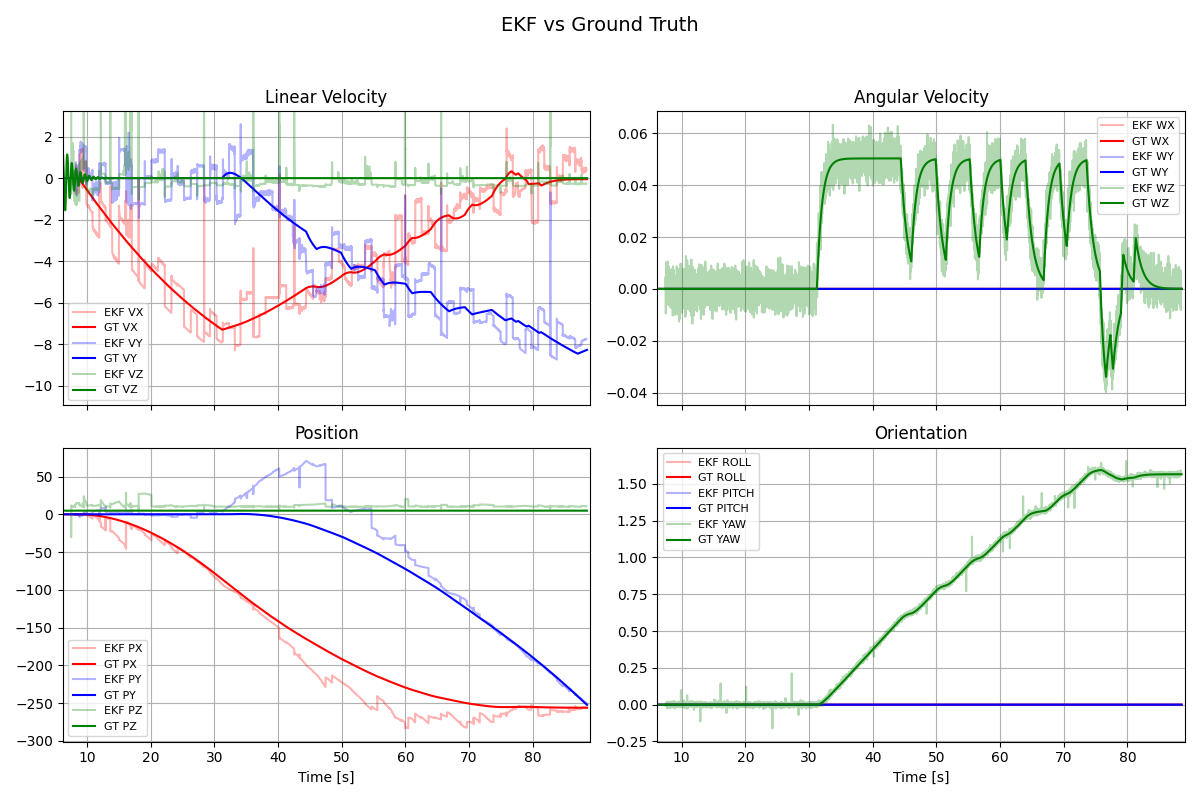
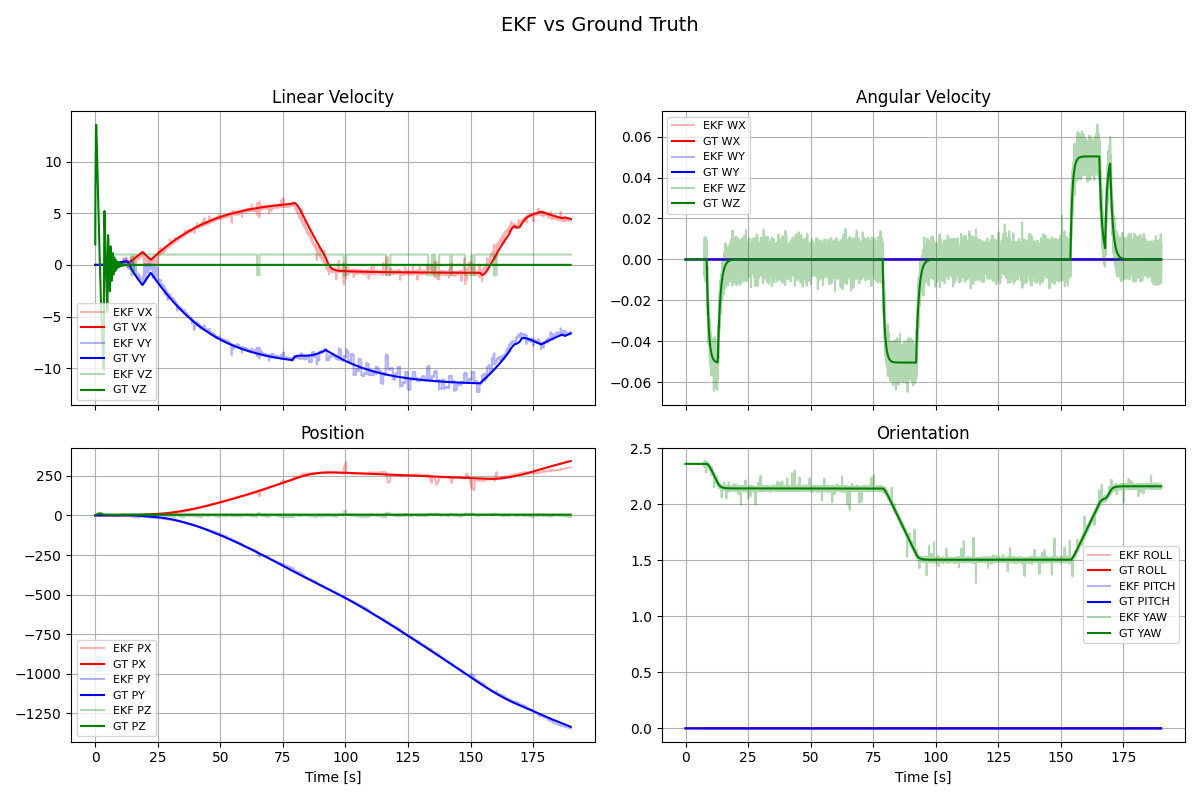
added propper angle handling :)))

diff --git a/src/state_estimators.rs b/src/state_estimators.rs
@@ -247,24 +247,11 @@ pub fn h_gnss(
     y
 }
 
-fn singularity_wrap(angle: f32) -> f32 {
-    let mut corrected = angle;
-    let diff = angle.abs() - PI;
-    if diff.abs() < 0.1 {
-        corrected = PI;
-    }
-
-    return corrected;
-}
-
 fn h_imu(
     x: Vector12<f32>,            // Estimated full state vector
     imu_placement: Vector3<f32>, // IMU placement: [x, y, z] in body frame
     imu_rotation: Vector3<f32>,  // IMU placement: [roll, pitch, yaw] in IMU frame
 ) -> Vector7<f32> {
-    // Get constants
-    let mag_north_w: Vector3<f32> = Vector3::new(0.0, 1.0, 0.0);
-
     // Split up states into manageable subparts
     let v_lin_w: Vector3<f32> = x.fixed_rows::<3>(0).into(); // [vx, vy, vz]
     let euler_dot: Vector3<f32> = x.fixed_rows::<3>(3).into(); // [angular velocity in roll, pitch, yaw]
@@ -273,7 +260,6 @@ fn h_imu(
     // Convert Ship to body frame
     let v_lin_ship: Vector3<f32> = kinematics::linear_velocity_world_to_body(euler, v_lin_w);
     let v_ang_ship: Vector3<f32> = kinematics::euler_dot_to_angular_velocity_body(euler, euler_dot);
-    let mag_north_ship: Vector3<f32> = kinematics::rot_world_to_body(euler) * mag_north_w;
 
     // Convert Ship to object frame
     let imu_velocity_in_ship = Vector3::<f32>::zeros(); // IMU sits tight, no linear velocity in the ship
@@ -290,25 +276,7 @@ fn h_imu(
     let mut v_ang_imu: Vector3<f32> = kinematics::angular_velocity_body_to_object(imu_v_ang_in_ship, v_ang_ship);
     v_ang_imu *= -1.0; // ? Need to invert the velocities for some reason (I have no idea why because its literally same transform as in simulation)
 
-    // Magnetometer singularity handler
-    let mut mag_imu_vec = kinematics::rot_object_to_body(imu_rotation) * mag_north_ship;
-    
-    // HARDEN against near-zero
-    let eps = 0.01; // You can tune this
-    if mag_imu_vec.norm() < eps {
-        mag_imu_vec = Vector3::new(eps, 0.0, 0.0); // Fake a small vector in +X direction
-    }
-
-    let mut mag_imu = mag_imu_vec.y.atan2(mag_imu_vec.x); // extract heading in world frame
-
-    // Check for values close to singularity
-    let diff = mag_imu.abs() - PI;
-    if diff.abs() < 0.1 {
-        mag_imu = PI;
-    }
-
-    // Need to eliminate sudden jumps between +pi and -pi, ie the singularity point
-    mag_imu = singularity_wrap(mag_imu);
+    let mag_imu = euler[2]; // Just assume its 1:1 yaw angle no rotation transforms
 
     // Pack it
     let mut y = Vector7::<f32>::zeros();
@@ -361,7 +329,7 @@ fn limit_states(x: Vector12<f32>) -> Vector12<f32> {
 /// # Output:
 /// - New angle, unwrapped and continuous (can grow beyond ±2π)
 fn unwrap_angle(prev_unwrapped: f32, new_wrapped: f32) -> f32 {
-    let mut delta = new_wrapped - (prev_unwrapped % (2.0 * PI));
+    let mut delta = (-new_wrapped) - (prev_unwrapped % (2.0 * PI));
     
     if delta > PI {
         delta -= 2.0 * PI;
@@ -572,7 +540,7 @@ fn main() {
             x_est_posterior = limit_states(x_est_posterior);
 
             // In addition we must update IMU data to absolute certainty values from GNSS where it applies
-            // Mainly to linear velocity IMU integral and drift can be reset
+            // Mainly to linear velocity IMU integral and drift to be reset
             {
                 // Convert measured GNSS velocity to IMU velocity integral
                 let z_imu = h_imu(
@@ -586,7 +554,7 @@ fn main() {
 
                 let mut v_lin_imu_write = v_lin_imu_clone.write().unwrap();
                 *v_lin_imu_write = z_imu_v;
-            } 
+            }
             {
                 let mut R_imu_write = R_imu_clone.write().unwrap();
                 *R_imu_write = R_imu_0;
@@ -615,6 +583,9 @@ fn main() {
         // Integration states
         let mut last_time = Instant::now();
 
+        // Unwrapped yaw follower
+        let mut mag_imu = 0.0;
+
         // Get the IMU drift
         let mut imu_drift_factor: Vector7::<f32> = Vector7::<f32>::from_row_slice(&config.estimators.imu_drift);
         imu_drift_factor += Vector7::<f32>::from_element(1.0);
@@ -640,28 +611,31 @@ fn main() {
             let mut v_lin_imu = *v_lin_imu_clone.read().unwrap();
             v_lin_imu += dt * accel;
 
+            // unwrap IMU magnetometer angle to be continuous instead of -pi to pi
+            mag_imu = unwrap_angle(mag_imu, imu[6]);
+
+            // For measurements we need inverted magnetometer values
+            let mag_imu_inv = mag_imu + config.sensors.imu_rotation[2] * 2.0 - PI/2.0;
+
             // Add drift to the measurement noise matrix
             let mut R: Matrix7x7<f32> = *R_imu_clone.read().unwrap();
             R = R.component_mul(&imu_drift_matrix);
 
-            // Update IMU drift matrix and velocity immediately 
+            // Update IMU velocity and drift matrix
             {
                 let mut v_lin_imu_write = v_lin_imu_clone.write().unwrap();
                 *v_lin_imu_write = v_lin_imu;
-            } 
+            }
             {
                 let mut R_imu_write = R_imu_clone.write().unwrap();
                 *R_imu_write = R;
             }
             
-            // Build vector measurement with integrated acceleration
+            // Build measurement vector 
             let mut z = Vector7::<f32>::zeros();
             z.fixed_rows_mut::<3>(0).copy_from(&v_lin_imu); // velocity
             z.fixed_rows_mut::<3>(3).copy_from(&imu.fixed_rows::<3>(3)); // gyro
-            z[6] = imu[6];
-
-            // Need to eliminate sudden jumps between +pi and -pi, ie the singularity point
-            z[6] = singularity_wrap(imu[6]);
+            z[6] = mag_imu_inv;
 
             // Correction
             let (
@@ -680,26 +654,6 @@ fn main() {
             );
 
             x_est_posterior = limit_states(x_est_posterior);
-
-            // Must also unwrap yaw because IMU has -pi to pi witch would mean sudden sharp peaks
-            // This is why we need ti unwrap IMU angle estimate into estimate that other correction and prediction functions can run as well
-            x_est_posterior[11] = unwrap_angle(x_est_pri[11], x_est_posterior[11]);
-
-            // ! DEBUGGING !
-            println!("x_est_pri: {:?}", x_est_pri);
-            println!("z: {:?}", z);
-            println!("h: {:?}", h_imu(
-                x_est_pri,
-                Vector3::from_column_slice(&config.sensors.imu_placement),
-                Vector3::from_column_slice(&config.sensors.imu_rotation),
-            ));
-            println!("x_est_posterior: {:?}", x_est_posterior);
-            println!("y: {:?}", (z - h_imu(
-                x_est_pri,
-                Vector3::from_column_slice(&config.sensors.imu_placement),
-                Vector3::from_column_slice(&config.sensors.imu_rotation),
-            )));
-            println!();
 
             // Update EKF states
             {
